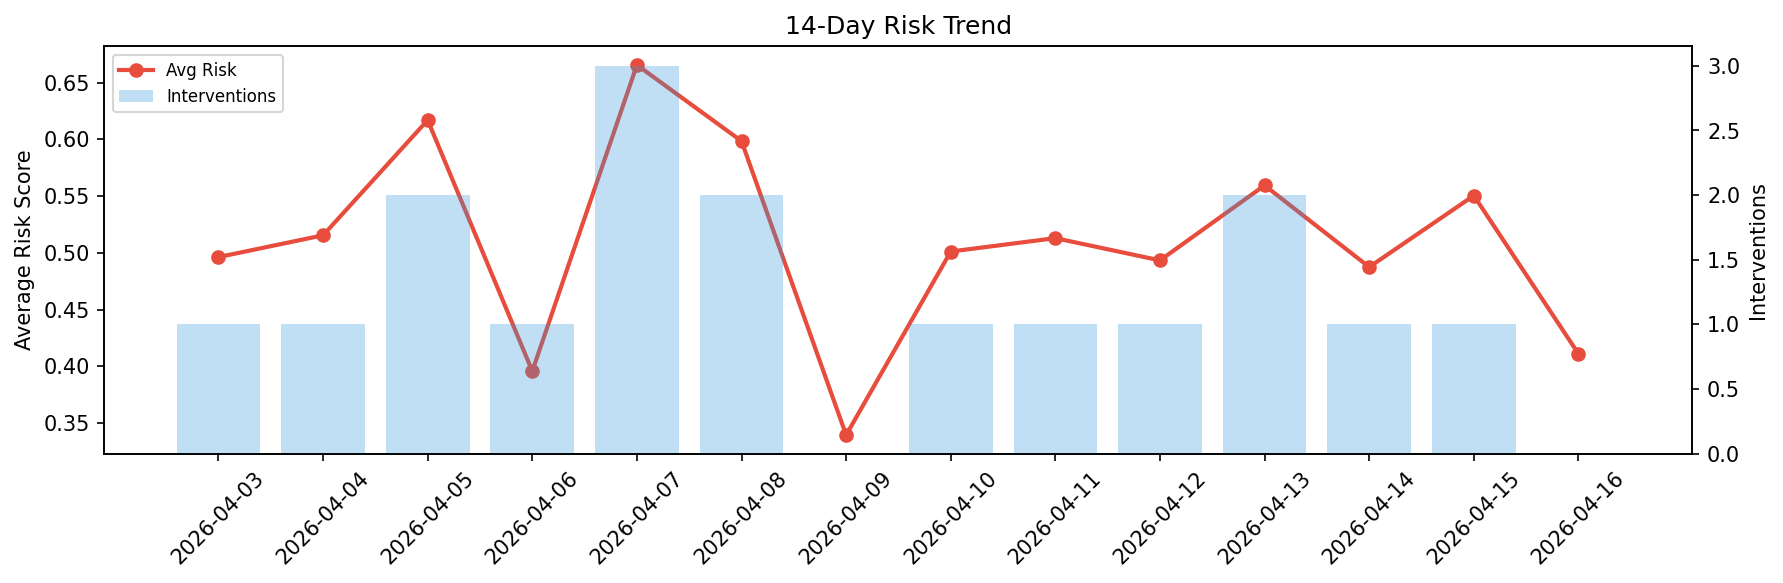
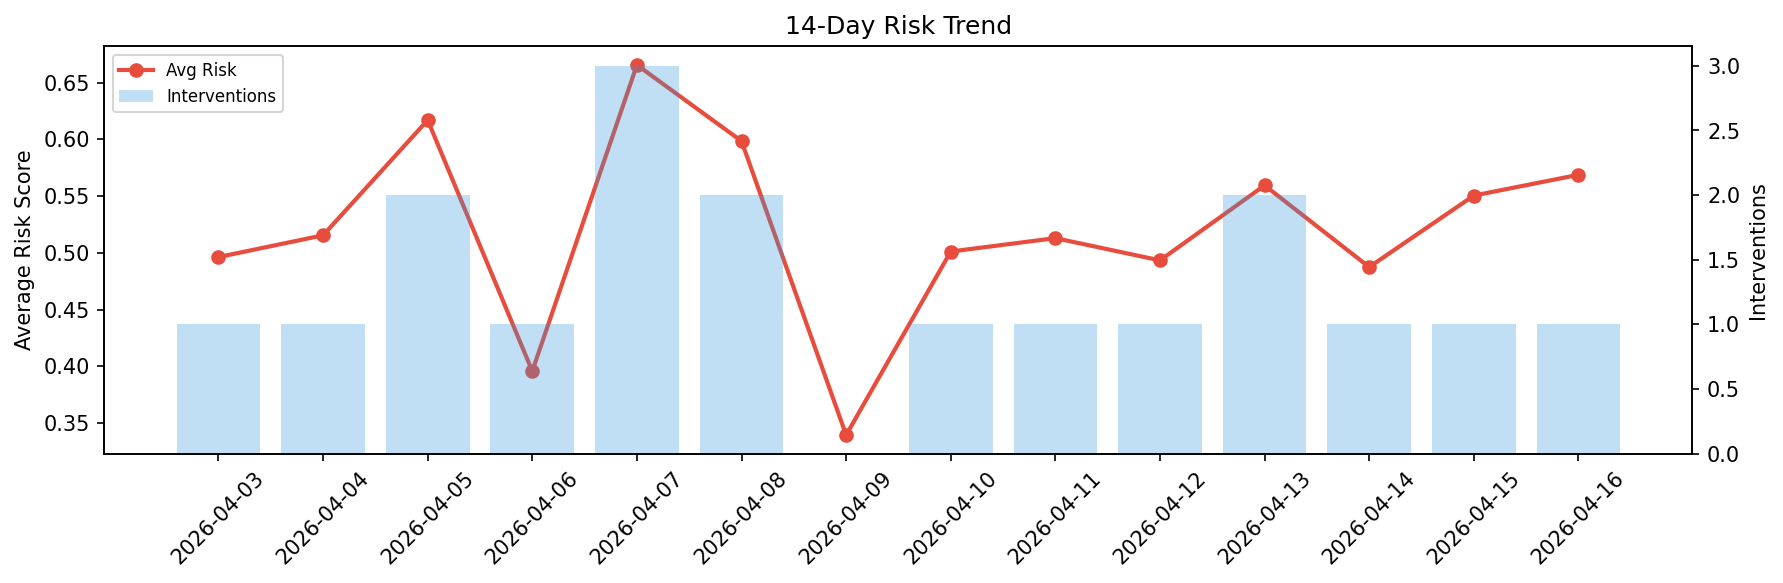
agent-improvement: daily cycle 2026-04-16T15:56

diff --git a/logs/2026-04-16.md b/logs/2026-04-16.md
@@ -1,6 +1,6 @@
 # Agent Improvement Report — 2026-04-16
 
-**Cycle ID:** `300e4c9f` | **Avg Risk:** 0.411 | **Interventions:** 0/4
+**Cycle ID:** `4c65a09c` | **Avg Risk:** 0.5687 | **Interventions:** 1/4
 
 ![Dashboard](2026-04-16_dashboard.png)
 
@@ -10,18 +10,18 @@
 
 | Domain | Risk Score | Decision | Alerts |
 |--------|-----------|----------|--------|
-| code_review | 0.5694 | monitor | duplication |
-| incident_response | 0.2184 | monitor | none |
-| data_pipeline | 0.3604 | monitor | none |
-| deployment | 0.4958 | monitor | none |
+| code_review | 0.5864 | monitor | duplication |
+| incident_response | 0.6026 | intervene | severity, blast_radius |
+| data_pipeline | 0.5022 | monitor | none |
+| deployment | 0.5835 | monitor | canary_error, latency_p99 |
 
 ## Delta vs Yesterday
 
 | Domain | Today | Yesterday | Change |
 |--------|-------|-----------|--------|
-| code_review | 0.5694 | 0.586 | 📉 -2.8% |
-| incident_response | 0.2184 | 0.4105 | 📉 -46.8% |
-| data_pipeline | 0.3604 | 0.608 | 📉 -40.7% |
-| deployment | 0.4958 | 0.5972 | 📉 -17.0% |
+| code_review | 0.5864 | 0.586 | 📈 0.1% |
+| incident_response | 0.6026 | 0.4105 | 📈 46.8% |
+| data_pipeline | 0.5022 | 0.608 | 📉 -17.4% |
+| deployment | 0.5835 | 0.5972 | 📉 -2.3% |
 
 **Refinement:** `{'adjustment': 'maintain', 'trend': 'improving', 'window': 4}`
